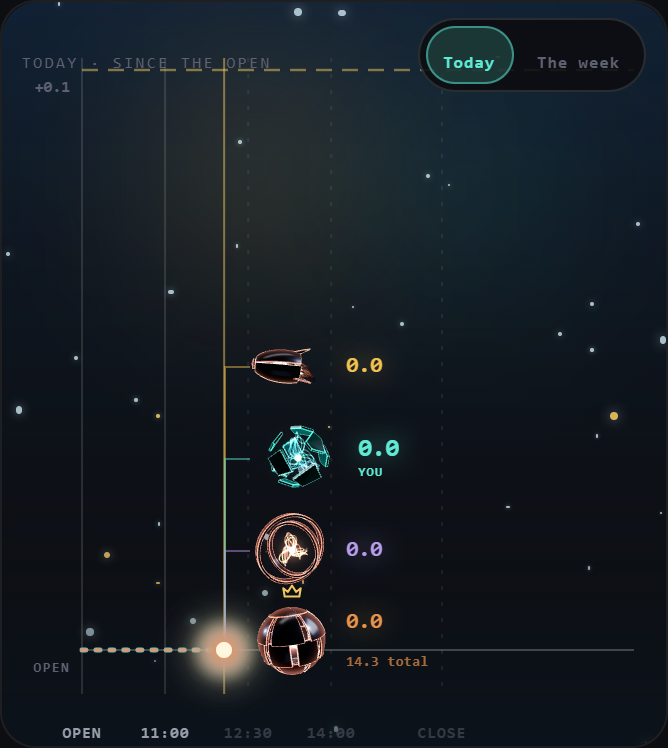
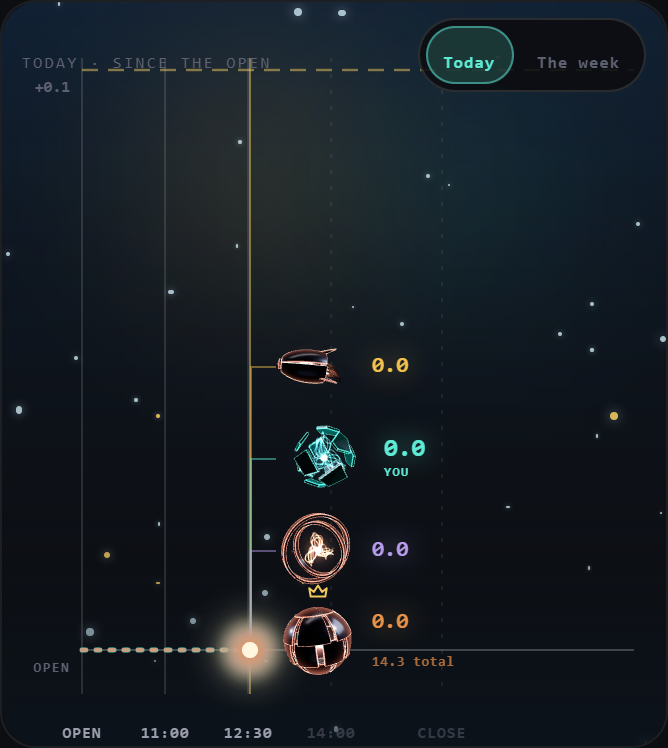
Agent form S2: report at the final code head, with the preview and what was checked on it

Changed region(s): [[0.2695, 0.0922, 0.6886, 0.9225], [0.3293, 0.9532, 0.3593, 1.0], [0.3892, 0.9532, 0.4192, 0.984]]

diff --git a/docs/audits/20261030_BUILD_AGENT_FORM_S2.md b/docs/audits/20261030_BUILD_AGENT_FORM_S2.md
@@ -1,6 +1,6 @@
 # Build S2: The armored agent in League games, plus the S1 carry list
 
-**Run date:** October 30, 2026 · **Model:** Opus · **Branch:** `claude/agent-form-s2`, cut from `main` @ `f7be7f1b` (which holds PR #1011 and PR #1014), pushed from the worktree branch `claude/agent-form-s2-armored-16abc8` by refspec · **Smoke branch:** `claude/agent-form-s2-smoke` · **Preview:** PREVIEW_URL
+**Run date:** October 30, 2026 · **Model:** Opus · **Branch:** `claude/agent-form-s2`, cut from `main` @ `f7be7f1b` (which holds PR #1011 and PR #1014), pushed from the worktree branch `claude/agent-form-s2-armored-16abc8` by refspec · **Smoke branch:** `claude/agent-form-s2-smoke` · **Preview:** https://trade-seven-exm6yeof6-fais-projects-bc179554.vercel.app
 
 **Preamble.** `git fetch origin` ran first. `origin/main` = `f7be7f1b`, the merge of PR #1014, with PR #1011's merge `b1823fdd` beneath it, so the prompt's STOP does not apply. The tree was clean. Fenced files read: `api/agent/decide.js` (`:1382-1594`, the prescribed deploy, for R13). Fenced functions called: none. Fenced files edited: none. Nothing under `api/` changed. `tournamentAgentBoards.js`, `tournamentAgentDraft.js`, `tournamentCpu.js` and `agent-evaluate.js` were read for R13; none is edited.
 
@@ -13,15 +13,15 @@
 | 1 | Flag-off identity | **All three flags off, the build differs from `main` in 2 of 47 files, on R20's and R22's lines only.** 44 JS chunks, the stylesheet and `index.html` were compared unminified with hashes masked. The list is in §8. |
 | 2 | Step 1 map | **Two League sites, no STOP.** The fuse hero's tips (the live arena, ranked and training) and the climb's seats (the Training tab's preview). No site needs a server or fenced change, every opponent's archetype is already on the client, and two sites is under the eight allowed (§1). |
 | 3 | R13: is the CPU's archetype real? | **Yes.** It ranks the board the CPU's six are drafted from, and the battle is deployed with it. One limit: a CPU's battle is passive, so the archetype picks the stocks and never trades during the day (§2). |
-| 4 | League figures (R13–R16) | **Built behind `AGENT_FORM_LEAGUE_ENABLED = false`.** Yours teal; each CPU and human rival in copper, in their own armor; an unknown seat a bare copper core. Every phone seat was a 25–30 px head and is now a 44–50 px live figure. No figures overlap, and all stay inside the hero at 320, 360, 390 and 1280 px, and on the shortest phone hero (§7). |
+| 4 | League figures (R13–R16) | **Built behind `AGENT_FORM_LEAGUE_ENABLED = false`.** Yours teal; each CPU and human rival in copper, in their own armor; an unknown seat a bare copper core. Every phone seat was a 25–30 px head and is now a 44–50 px live figure. In headless Edge no figures overlap, and all stay inside the hero at 320, 360, 390 and 1280 px, and on the shortest phone hero (§7). |
 | 5 | League moods (R15) | **Confident and worried follow the standing the screen shows,** taken from each screen's own order, never from a score. **Researching** works from your live battle. **Waiting** is unused, because League has no cockpit. **Celebrating does not fire in League today: see Founder question 1.** |
 | 6 | Clipped sets (R18) | **Fixed.** The Trend Follower is 12.2 % smaller and the Diversifier 5.3 %. Over 1,000 frames in all six moods, neither reaches the box's edge at any size, up to the hub's 340 px. The other five forms are pixel-identical to `main` (§5). |
 | 7 | Hub brighten (R19) | **Built, on S7's triggers and timing.** Board 5 covers all three areas: Equipped Archetype lights the armor's edges, Partnership and Shared Research the core. A deploy lights the whole form, as does the archetype area on bare Shadow, because board 5 is silent on those (§6). |
-| 8 | Narrow-phone scores (R20) | **Fixed for everyone, flags off too.** Long gated scores no longer touch "DAY 3 OF 5" at 312, 320, 339, 360 or 390 px, flags off or on, with the app's stylesheet loaded (§4). |
+| 8 | Narrow-phone scores (R20) | **Fixed for everyone, flags off too.** Long gated scores clear "DAY 3 OF 5" by 4.7 px or more at 312, 320, 339, 360 and 390 px, flags off or on, with the app's stylesheet loaded. **Measured in Inter; SF Pro on the iPhone is unmeasured, so checklist step 11 is the real test** (§4). |
 | 9 | R21, R22, R23 | **All built.** The battle forms have their own clock, the hook reads the battle's snapshot first, and a swap asked for while paused starts when the view resumes (§3). |
-| 10 | Tests and mutation | **58 of 58 mutants killed** (§9). `lint:gate` exit 0. Full suite on Linux, code head `80d406e0`: **27,595 rows, 27,506 pass, 0 fail, 89 skipped.** |
-| 11 | Smoke | `claude/agent-form-s2-smoke`: all three flags on, the hub readout, `?formScale=` over the battle and League forms, and `?leagueForms=1`, the real League arena on recorded fixtures (§10). |
-| 12 | Review threshold | The code diff is **46 files, +1,699 / −96 lines**, over both BUILD_RULES §2 thresholds, so **a review session runs before merge.** No review is claimed here. |
+| 10 | Tests and mutation | **60 of 60 mutants killed** (§9). `lint:gate` exit 0. Full suite on Linux, code head `64783260`: **27,597 rows, 27,508 pass, 0 fail, 89 skipped.** |
+| 11 | Smoke | `claude/agent-form-s2-smoke`: all three flags on, the hub readout, `?formScale=` over the battle and League forms, and `?leagueForms=1`, the real League arena on the repo's fixture data (§10). |
+| 12 | Review threshold | The code diff is **46 files, +1,724 / −96 lines**, over both BUILD_RULES §2 thresholds, so **a review session runs before merge.** No review is claimed here. |
 
 ---
 
@@ -100,6 +100,7 @@ Every surface in the League ranked and training flows that draws the robot head,
 
 - The "longer" scores overlapped on `main` at every width to 390. They clear by 4.7 px or more now, flags off and on.
 - Whole-number scores and the desktop header are unchanged. No horizontal overflow, and no header height changes, at any width.
+- **How much room that leaves.** The tightest case is 4.7 px on a 98 px score, so a font up to about 5 % wider than Inter still clears; at the widths the ruling names, long scores keep 6–8 %. If SF Pro is wider than that, the score meets the column by a pixel or two, against 6–30 px on `main`, and `SCORE_CHAR_EM` is the one number to raise.
 - **Picked: the shrink, two decimals.** One decimal at 320 px gains 3 px of type (23 vs 19.7) and still has to shrink, and it can print a tie while the bar and the emphasis show a lead (BUILD_RULES §9).
 - **`minWidth: 0` on the CPU columns was tried and left out.** The measurements are the same without it, and it changed the legacy header's OFF-6 golden bytes.
 
@@ -199,9 +200,9 @@ Top row: at rest, then the armor, core and whole-form peaks. Bottom row: the red
 | Fuse tip, desktop | 44 / 36 | **64 / 56** (the stage scales to fit: 59 / 51 at 1280 px) |
 | Climb seat | 54 / 48 / 44; 64 / 58 / 50 | The same: the head's own footprint, all over 40 px |
 
-Every seat is now over the 40 px floor, so every seat is live. Up to four forms draw at once in the arena. **Their frame rate on the iPhone is unmeasured**, so the fixture page carries the corner readout (checklist step 10).
+Every seat is now over the 40 px floor, so every seat is live. The phone's top seat starts 14 px lower than today's, for the reason under "The scope toggle" below. Up to four forms draw at once in the arena. **Their frame rate on the iPhone is unmeasured**, so the fixture page carries the corner readout (checklist step 10).
 
-**Measured** on the real arena, headless Edge, 2×, on recorded fixtures with every seat bunched:
+**Measured** on the real arena, headless Edge, 2×, on the repo's `arenaFixtures` with every seat bunched:
 
 | Viewport | Hero | Forms | Boxes that touch | Figures that touch | Past the hero | Value past the edge |
 |---|---|---|---|---|---|---|
@@ -213,6 +214,23 @@ Every seat is now over the 40 px floor, so every seat is live. Up to four forms 
 | Climb, 320 / 360 / 800 px | as shown | 44–64 | none | **none** | none | none |
 
 On a short hero the gap gives way first (`leagueAgentFormSlot.jsx:47`), and the figures still clear each other because each fills under 90 % of its box.
+
+**The scope toggle: a regression of mine, found by looking, and fixed.** On the real preview the leader's value was hidden behind the Today / The week toggle. `main` has this overlap too (the padT ticket in `fuseGeometry.js`), but the larger tips made it start an hour sooner, so none of the numbers above saw it. Measured through a day, the leader at the top of the board:
+
+| Hours after the open | `main` | First build | Now |
+|---|---|---|---|
+| 1, 2 | clear | clear | clear |
+| 3 | clear | **under by 11.6 px** | clear |
+| 4.5, 5.8 | **under by 9.5 px** | **under by 11.6 px** | clear |
+
+- **The fix:** on a phone hero tall enough for it (222 px or more), the stack starts below the toggle (`fuseFormTop`, `leagueAgentFormSlot.jsx:58`). Clear at 320, 360 and 390 px, and at 1280, where the toggle never reached it. So the forms fix this overlap for most phones, flag on.
+- **The limit:** on the shortest hero (187 px, a 553 px usable screen) four forms below the toggle do not fit, so it keeps today's start, and the value goes under by 11.6 px against `main`'s 9.5.
+
+4.5 hours into a day, `main`, then now:
+
+![Before, a live day](assets/agent-form-s2-league-before-390-day.png)
+
+![After, a live day](assets/agent-form-s2-league-after-390-day.png)
 
 **Facing (R14).** The climb's lanes have a direction, so an opponent looks toward you from either side (`ClimbArena.jsx:234`). The fuse's tips stack at one x, so there is no left or right between seats, and an opponent keeps the form's own mirror.
 
@@ -285,7 +303,7 @@ The order comes from each screen's own derivation: `deriveCut(…).ranked` on th
 
 ## 8. Flag-off identity
 
-**Method:** `vite build --minify false` on Linux (WSL, Node 20.20.2), LF trees, every `-[8 chars].js/.css` masked in names and contents, `diff -r`, source maps excluded. `main` `f7be7f1b` against the code head `80d406e0`.
+**Method:** `vite build --minify false` on Linux (WSL, Node 20.20.2), LF trees, every `-[8 chars].js/.css` masked in names and contents, `diff -r`, source maps excluded. `main` `f7be7f1b` against the code head `64783260`.
 
 **Result: 47 files compared (44 JS), 2 differ.** The stylesheet, `index.html` and 42 chunks are identical, the hub's and the League's included.
 
@@ -331,14 +349,14 @@ The check ran after R19 and R21 went in, after the League sites went in (togethe
 | `screens/battleView/leagueAgentMood.test.js` | 16 | The standing, ranked and training; every precedence pair; opponents standing-only; the banked-day pin for question 1 |
 | `League/battleArena/LeagueAgentForm.jsdom.test.jsx` | 11 | The still; player, CPU and human through the real `buildArenaModel`; bare when unknown; the code id, never the label; moods from the board, the standing and the arena's battle |
 | `League/battleArena/LeagueAgentForm.failure.jsdom.test.jsx` | 2 | A failed chunk keeps the still and the arena; a failed outcome module still draws, idle |
-| `League/battleArena/leagueAgentForm.sites.jsdom.test.jsx` | 19 | Both sites with the flag on: sizes, the face's lift gone, the order from `deriveCut` against contrary scores, no margin, the gap, facing, no remount on a surge, the arena's battle |
+| `League/battleArena/leagueAgentForm.sites.jsdom.test.jsx` | 21 | Both sites with the flag on: sizes, the face's lift gone, the order from `deriveCut` against contrary scores, no margin, the gap, facing, no remount on a surge, the arena's battle |
 | `League/battleArena/leagueCpuArchetype.test.js` | 10 | R13: the seat equals the agent document for nine CPUs; the board tripwire |
 
 **Added to existing files:** R18's bounds and the response in the pose (`builders.test.js`), R19 and R23 (`engine.lifecycle.jsdom.test.js`, 18 rows), the frames and curve (`vocab.test.js`), R19's triggers, parts and numbers against S7's (`HubAgentForm.jsdom.test.jsx`, 8), the stages (`ShadowStage.agentForm`), the wrapper (`AgentForm.s1`), R20 (`ArenaHeader.render`, 4), R21 (`BattleAgentForm.jsdom`, 2; `agentMood.test.js`), R22 (`AgentPresenceMount.reactivity`).
 
 **Guards:** `leagueAgentMood.js`, `LeagueAgentForm.jsx` and `leagueAgentFormSlot.jsx` are registered in the token and motion guards and their baselines at zero; the flag in `flagPinGuard` and `agentFormFlags.test.js`, whose literal-ternary row now covers every League read; the League form's one lazy edge in the hub mount guard's main-graph row; the League slot in `agentForm.flagOffBundle.test.js`, with its marks and its flag planted; the wrapper's sixth effect in the activity guard. No guard's rule was loosened. S1's one "researching" statement moved into a shared `signalMood`, unchanged, so the `deskHonesty` exemption still names one line.
 
-**Mutation** (Linux; each mutant one exact replacement, its rows run, the file restored from the commit's blob and checked equal). **58 of 58 killed**, from a green baseline. A first start was stopped before it produced anything: one of my own rows was red at that commit, and a red baseline fakes kills.
+**Mutation** (Linux; each mutant one exact replacement, its rows run, the file restored from the commit's blob and checked equal). **60 of 60 killed**, from a green baseline. A first start was stopped before it produced anything: one of my own rows was red at that commit, and a red baseline fakes kills.
 
 The first round killed 55 of 57. The two survivors were both useful:
 - **R15-2, a points margin on the board.** My fixture's spread was too wide to feel a margin. A close-board row now kills it.
@@ -349,7 +367,7 @@ The first round killed 55 of 57. The two survivors were both useful:
 | R13 | A League CPU drawn bare (R13-1); the display label read (R13-2); the seat loses the CPU map (R13-3); the board stops reading the archetype (R13-4) | The CPU, human and player rows; the CPU file's nine rows; the tripwire |
 | R14 | Opponents in teal; the lanes' opponents look away; `facing` ignored | The allegiance rows; the lanes row; the facing rows |
 | R15 | **An invented threshold** (third place advances; a points margin); **a standing from raw scores** (fuse, climb); a level board shows one; an opponent reads your lock; a banked day counts as a win; a finished game shows the live standing; last not worried in training; the arena drops its battle | The standing rows; the close-board row; the contrary-scores rows; the level row; the opponent rows; the banked pin; the finished rows; the training row; the arena row |
-| R16 | A rival under 40 px; the gap ignores a short hero; the fuse keeps the old gap; the old size | The floor row; the short-hero row; the spread row; the size row |
+| R16 | A rival under 40 px; the gap ignores a short hero; the fuse keeps the old gap; the old size; the stack starts at today's top; a short hero loses its room | The floor row; the short-hero row; the spread row; the size row; the toggle row; the short-hero start row |
 | R17 | The flag on | The pin, the literal, `flagPinGuard` |
 | R18 | **A set's frame reverted** (both sets); the shift dropped; the shift jumps at a swap | The bounds row and the table pin; the bounds row; the no-jump row |
 | R19 | **A trigger dropped** (area, created); **brightening under Reduce Motion**; the phone blooms on an area; board 5's parts swapped; a paused response on the wall clock; both lengths drifting from S7's; the flash not owed; the wrapper answering every render; a response left lit | The stage and created rows; the flash rows; the stage row; the parts rows; the 50 ms row; the parity row; the owed row; the wrapper row; the mid-response row |
@@ -363,33 +381,41 @@ The first round killed 55 of 57. The two survivors were both useful:
 
 ## 10. Checks and smoke
 
-- **`lint:gate`:** exit 0 on the code head `80d406e0`.
-- **Full suite** (Linux: WSL, `TZ=UTC`, 8 workers, Node 20.20.2, under `flock /tmp/pd-suite.lock`) on the code head `80d406e0`: **1,256 files, 27,595 rows, 27,506 pass, 0 fail, 89 skipped.**
+- **`lint:gate`:** exit 0 on the code head `64783260`.
+- **Full suite** (Linux: WSL, `TZ=UTC`, 8 workers, Node 20.20.2, under `flock /tmp/pd-suite.lock`) on the code head `64783260`: **1,256 files, 27,597 rows, 27,508 pass, 0 fail, 89 skipped.**
 - **`main`** had not moved at the last fetch (`f7be7f1b`), so the code head is `main` plus this build.
-- **Flag-off identity:** §8, on `80d406e0`.
+- **Flag-off identity:** §8, on `64783260`.
 - **Not run:** the Firestore rules suite (no rules changed), and anything on a real device. The first real render on an iPhone is yours.
 
-**`claude/agent-form-s2-smoke`** = `6b02b34a`: one "SMOKE ONLY, NEVER MERGE" commit on `80d406e0`, 8 files, composed in a scratch worktree. It carries:
+**`claude/agent-form-s2-smoke`** = `5a411055`: one "SMOKE ONLY, NEVER MERGE" commit on `64783260`, 8 files, composed in a scratch worktree. It carries:
 - all three flags `true`;
 - the hub hero's corner readout, as S1's;
 - **the dial:** `?formScale=` (0.8 to 1.6) over the battle and League forms, with a small label at the top left;
-- **`?leagueForms=1`:** the real `ArenaMobile`, `ArenaDesktop` and `ClimbArena` on recorded fixtures, opened ahead of sign-in as the S0 lab is, with chips for the standing, the game's state, your armor, ranked or training, the lobby climb and an unknown rival, and the readout.
+- **`?leagueForms=1`:** the real `ArenaMobile`, `ArenaDesktop` and `ClimbArena` on fixture data, opened ahead of sign-in as the S0 lab is, with chips for the standing, the game's state, your armor, ranked or training, the lobby climb and an unknown rival, and the readout. The data is the repo's `arenaFixtures` with hand-set standings, not a recorded game: the components are real, the numbers are not.
 
-**What goes red on the smoke commit, by design.** In the screens, Command Center, agent form, config and League suites: 111 rows in 14 files.
+**What goes red on the smoke commit, by design.** In the screens, Command Center, agent form, config and League suites: 112 rows in 14 files.
 - The flag pins and `flagPinGuard` (6).
 - The rows that assert what the flags replace, the same files and counts as S1's: `CommandCenterHub.s7` (52), `CommandCenterHub.jsdom` (3), `ArenaHeader.render` (13), `CharacterAvatar.render` (3), `CharacterPane.comparison` (2), `AgentBattleScreen.paneHeader` (4), `AgentBattleScreen.quoteAvailability` (15).
-- The readout and dial: `CommandCenterHub.realSheets` (5), the hub mount guard (4), the activity guard (1), `HubAgentForm.jsdom` (1), the bundle row (2).
+- The readout and dial: `CommandCenterHub.realSheets` (5), the hub mount guard (5), the activity guard (1), `HubAgentForm.jsdom` (1), the bundle row (2).
 - **No League row goes red.**
 
-**Checked on the preview:** PREVIEW_CHECK
+**Checked on the deployed preview,** driven in headless Edge at 393 × 660 with touch, about an iPhone 16 with Safari's bars showing:
+- The root and `?leagueForms=1` answer 200.
+- Four forms reach live and move. Every one of the 22 chips works, and the forms stay live through them.
+- `?formScale=1.2` gives 53 / 60 / 53 / 53 px, and its label says so.
+- The chip bar is 152 px, and the whole arena sits above it. Its first version was about 400 px, because the app forces every `button` to 16 px, so the chips are now spans.
+- Zero page errors.
+- The readout runs: 61 fps, 3.4 ms a frame with four live forms. That is this laptop's Intel GPU, and it says nothing about an iPhone (checklist step 10).
+
+**The hub and the battle need a signed-in account,** so on those I can claim HTTP 200 and nothing more. Your run is the first render of them, and of all of this, on a device.
 
 ---
 
 ## 11. The iPhone checklist (founder)
 
-Open **PREVIEW_URL** in Safari on the iPhone. Steps 1–5 need no sign-in and no live game.
+Open **https://trade-seven-exm6yeof6-fais-projects-bc179554.vercel.app** in Safari on the iPhone. Steps 1–6 need no sign-in and no live game.
 
-**League figures** (add `?leagueForms=1` to the end of the address, or open PREVIEW_URL/?leagueForms=1). The chips at the bottom change the game; the figures are the real ones.
+**League figures** (add `?leagueForms=1` to the end of the address, or open https://trade-seven-exm6yeof6-fais-projects-bc179554.vercel.app/?leagueForms=1). The chips at the bottom change a made-up game; the figures and the arena are the real ones.
 
 1. Your figure is **teal**, marked YOU. The others are **copper**, each in different armor.
 2. Tap **One unknown** (the "rival" row): that rival becomes a plain copper glowing core with no armor.
@@ -430,13 +456,14 @@ On `claude/agent-form-s2`:
 - `1670a738`: R13–R17, the League.
 - `05df7eaf`: the armor's edges at the peak.
 - `e512104f`: a row of mine that measured the wrong sprite.
-- `80d406e0`: the fixes from the mutation pass (the code head).
+- `80d406e0`: the fixes from the mutation pass.
+- `64783260`: the phone's tip stack below the scope toggle (the code head).
 - then this report and its pictures (docs only).
 
 R20 and R22 are the only commits that touch flag-off bytes.
 
 **Not committed** (session scratchpad): the harness (`league.jsx`, `run-league.mjs`, the extended `arena.jsx`, `fill.jsx`, `run-sites.mjs`), the mutant runner (`mutants.mjs`, `mut1.keep.log`), the WSL scripts, and the builds under `~/s2-runs`.
 
-**To remove the WSL worktrees:** `~/pd-ci-s2`, `~/pd-ci-s2-main` and `~/pd-ci-s2-smoke` have `node_modules` linked to `~/pd-ci-af1`'s. Run `unlink <tree>/node_modules` first, then `git -C ~/pd-ci worktree remove --force <tree>`.
+**To remove the WSL worktrees:** `~/pd-ci-s2`, `~/pd-ci-s2-main` and `~/pd-ci-s2-smoke` have `node_modules` linked to `~/pd-ci-af1`'s. Run `unlink <tree>/node_modules` first, then `git -C ~/pd-ci worktree remove --force <tree>`. The Windows scratch worktree that composed the smoke commit is already removed.
 
 A copy of this report is at `C:/Users/fashr/Documents/FantasyTrades/AgentForm/20261030_BUILD_AGENT_FORM_S2.md` (BUILD_RULES §3).
